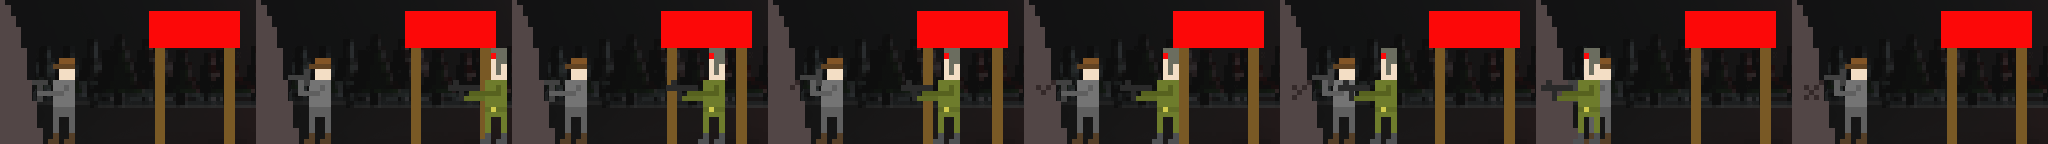
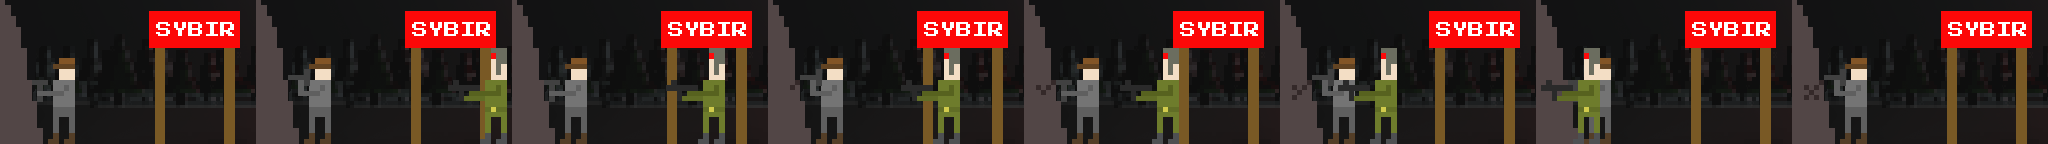
Add sybir to sprites

diff --git a/src/scenes/LoadingScene.ts b/src/scenes/LoadingScene.ts
@@ -114,8 +114,8 @@ export class LoadingScene extends Phaser.Scene {
     });
 
     this.load.spritesheet('intro3-frames', loadAsset('images/intro3.png'), {
-      frameWidth: 258,
-      frameHeight: 146,
+      frameWidth: 256,
+      frameHeight: 144,
     });
 
     this.load.image('ammo', loadAsset('images/ammo.png'));
